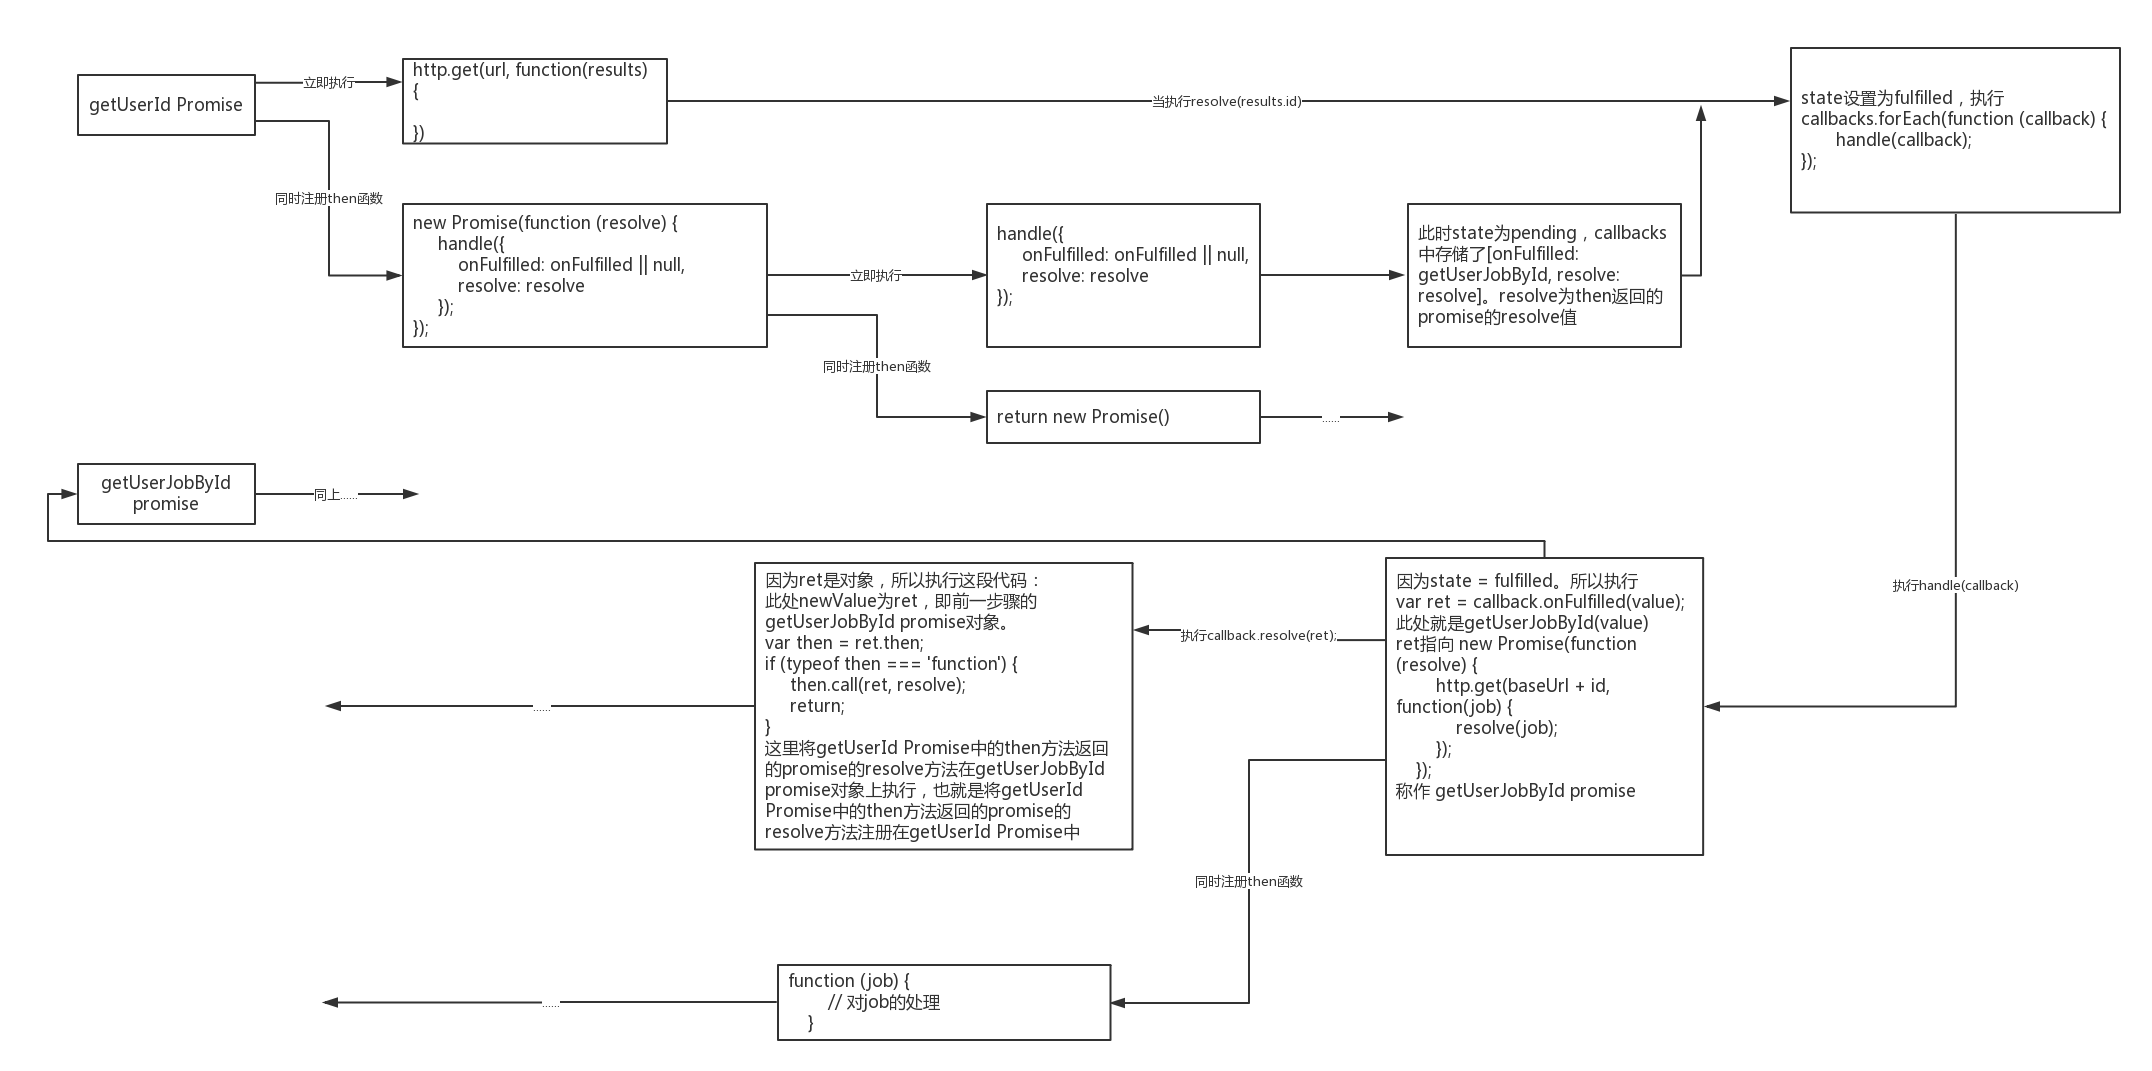
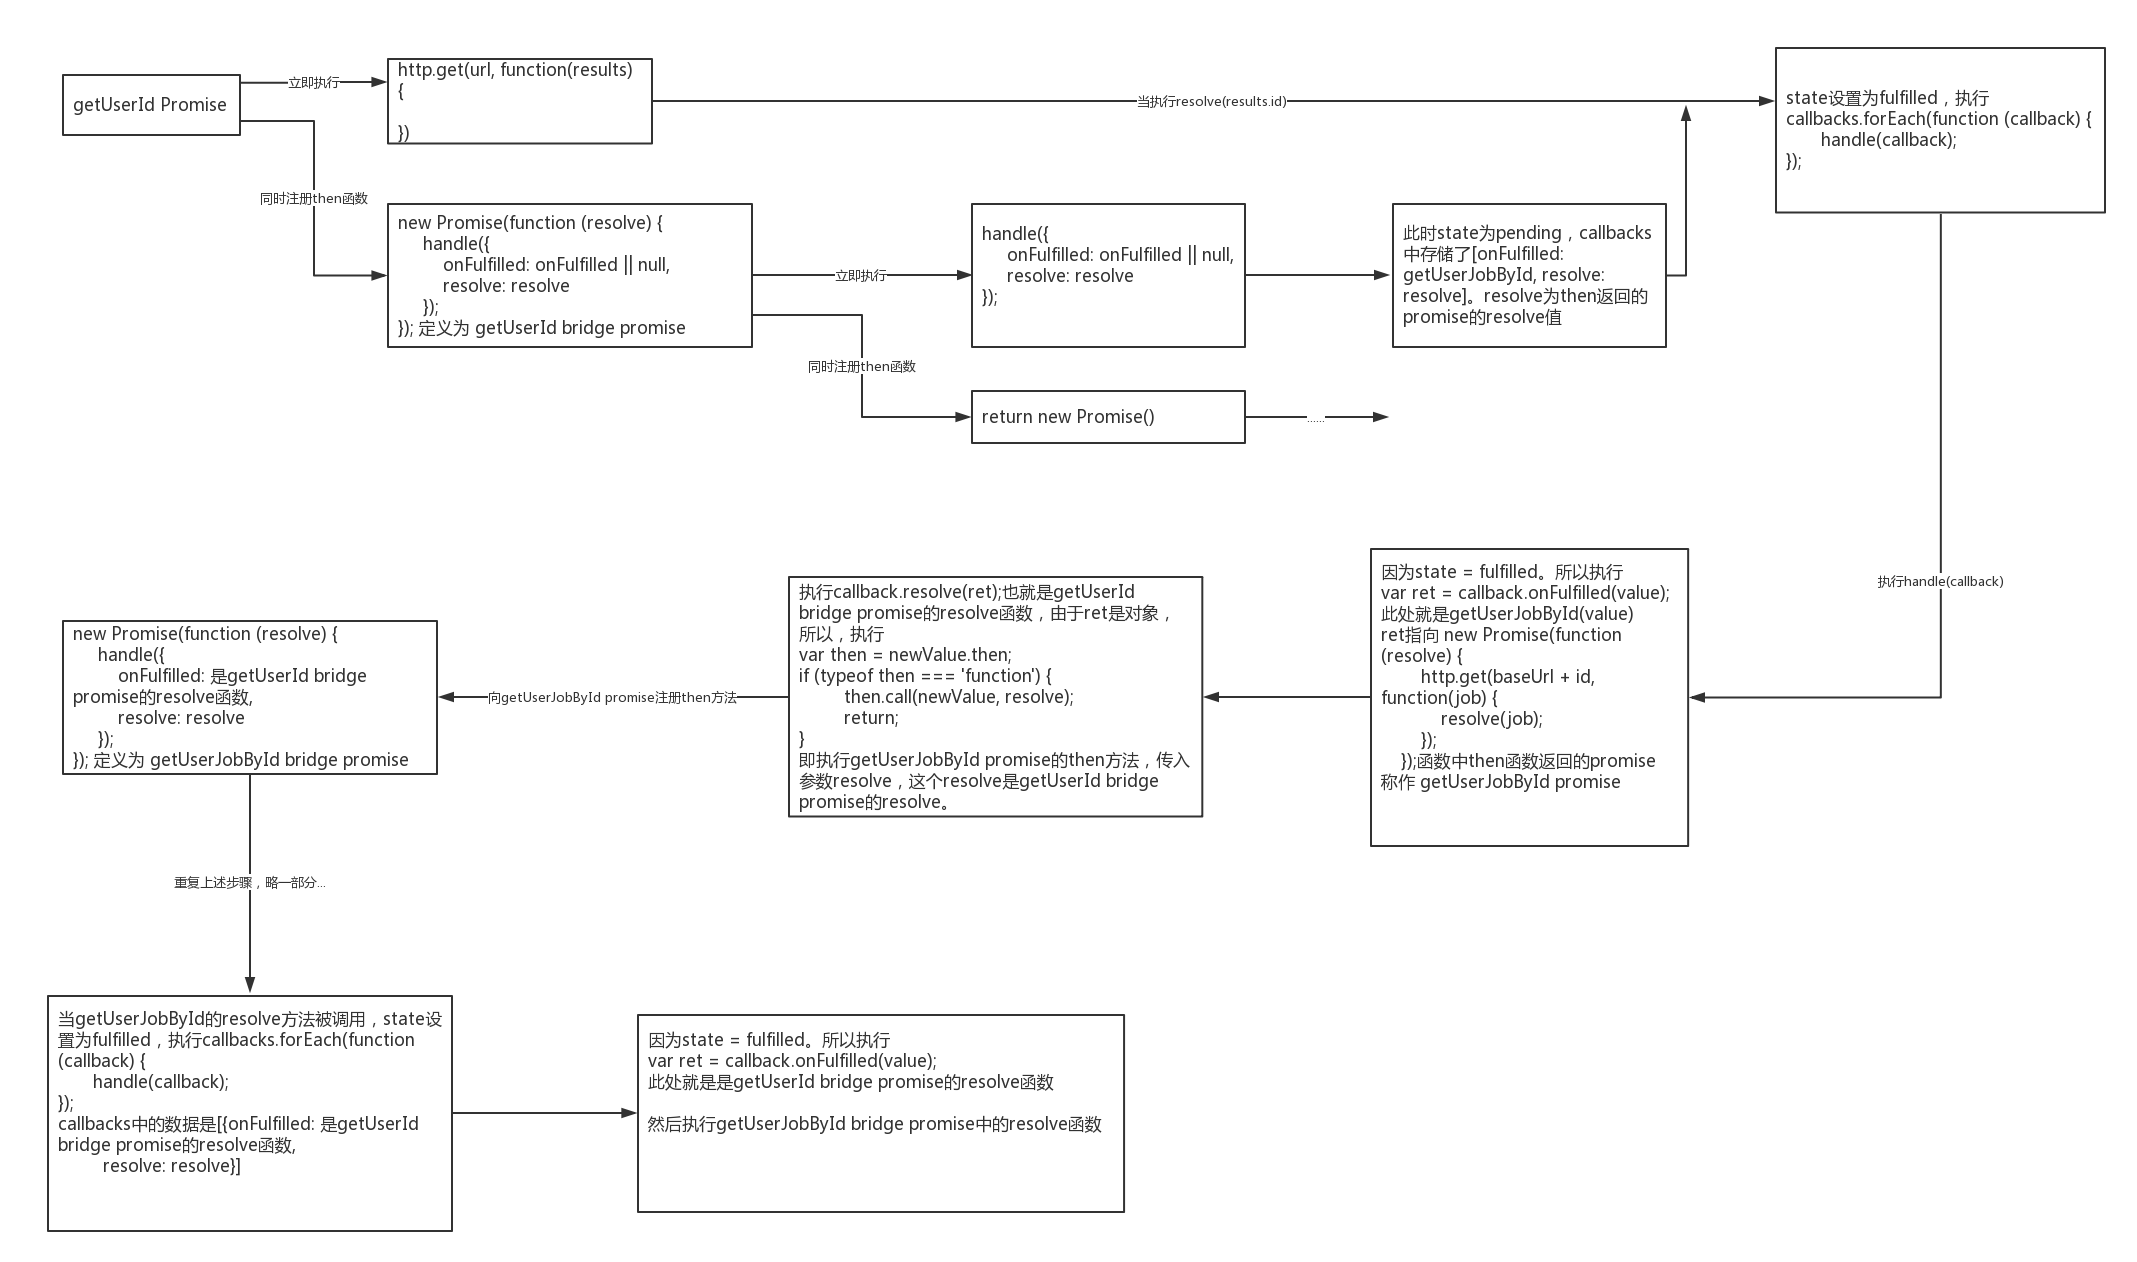
Site updated: 2017-05-18 19:59:14

diff --git a/2017/05/16/Promise原理解析/index.html b/2017/05/16/Promise原理解析/index.html
@@ -96,7 +96,7 @@
 引子为了让大家更容易理解，我们从一个场景开始讲解">
 <meta property="og:image" content="http://yoursite.com/images/promiseState.png">
 <meta property="og:image" content="http://yoursite.com/images/promiseAnalysis.png">
-<meta property="og:updated_time" content="2017-05-18T09:19:27.000Z">
+<meta property="og:updated_time" content="2017-05-18T11:16:51.000Z">
 <meta name="twitter:card" content="summary">
 <meta name="twitter:title" content="30分钟，让你彻底明白Promise原理">
 <meta name="twitter:description" content="前言前一阵子记录了promise的一些常规用法，这篇文章再深入一个层次，来分析分析promise的这种规则机制是如何实现的。ps:本文适合已经对promise的用法有所了解的人阅读,如果对其用法还不是太了解，可以移步我的上一篇博文。
@@ -367,9 +367,9 @@
 <li><code>handle</code>方法是<code>promise</code>内部的方法。<code>then</code>方法传入的形参<code>onFulfilled</code>以及创建新<code>Promise</code>实例时传入的<code>resolve</code>均被<code>push</code>到当前<code>promise</code>的<code>callbacks</code>队列中，这是衔接当前<code>promise</code>和后邻<code>promise</code>的关键所在（这里一定要好好的分析下handle的作用）。</li>
 <li><code>getUserId</code>生成的<code>promise</code>（简称<code>getUserId promise</code>）异步操作成功，执行其内部方法<code>resolve</code>，传入的参数正是异步操作的结果<code>id</code></li>
 <li>调用<code>handle</code>方法处理<code>callbacks</code>队列中的回调：<code>getUserJobById</code>方法，生成新的<code>promise</code>（<code>getUserJobById promise</code>）</li>
-<li>执行之前由<code>getUserId promise</code>的<code>then</code>方法生成的新<code>promise</code>的<code>resolve</code>方法，传入参数为<code>getUserJobById promise</code>。这种情况下，会将该<code>resolve</code>方法传入<code>getUserJobById promise</code>的<code>then</code>方法中，并直接返回。</li>
-<li>在<code>getUserJobById promise</code>异步操作成功时，执行其<code>callbacks</code>中的回调：<code>getUserId promise</code>中的<code>resolve</code>方法</li>
-<li>最后执行<code>getUserId promise</code>的后邻<code>promise</code>的<code>callbacks</code>中的回调。</li>
+<li>执行之前由<code>getUserId promise</code>的<code>then</code>方法生成的新<code>promise</code>(称为<code>bridge promise</code>)的<code>resolve</code>方法，传入参数为<code>getUserJobById promise</code>。这种情况下，会将该<code>resolve</code>方法传入<code>getUserJobById promise</code>的<code>then</code>方法中，并直接返回。</li>
+<li>在<code>getUserJobById promise</code>异步操作成功时，执行其<code>callbacks</code>中的回调：<code>getUserId bridge promise</code>中的<code>resolve</code>方法</li>
+<li>最后执行<code>getUserId bridge promise</code>的后邻<code>promise</code>的<code>callbacks</code>中的回调。</li>
 </ol>
 <p>更直白的可以看下面的图，一图胜千言（都是根据自己的理解画出来的，如有不对欢迎指正）：</p>
 <p><img src="/images/promiseAnalysis.png" alt="alt promise analysis"></p>

diff --git a/css/main.css b/css/main.css
@@ -1680,7 +1680,7 @@ pre .javascript .function {
   width: 4px;
   height: 4px;
   border-radius: 50%;
-  background: #61f62b;
+  background: #ffe3a8;
 }
 .links-of-blogroll {
   font-size: 13px;
